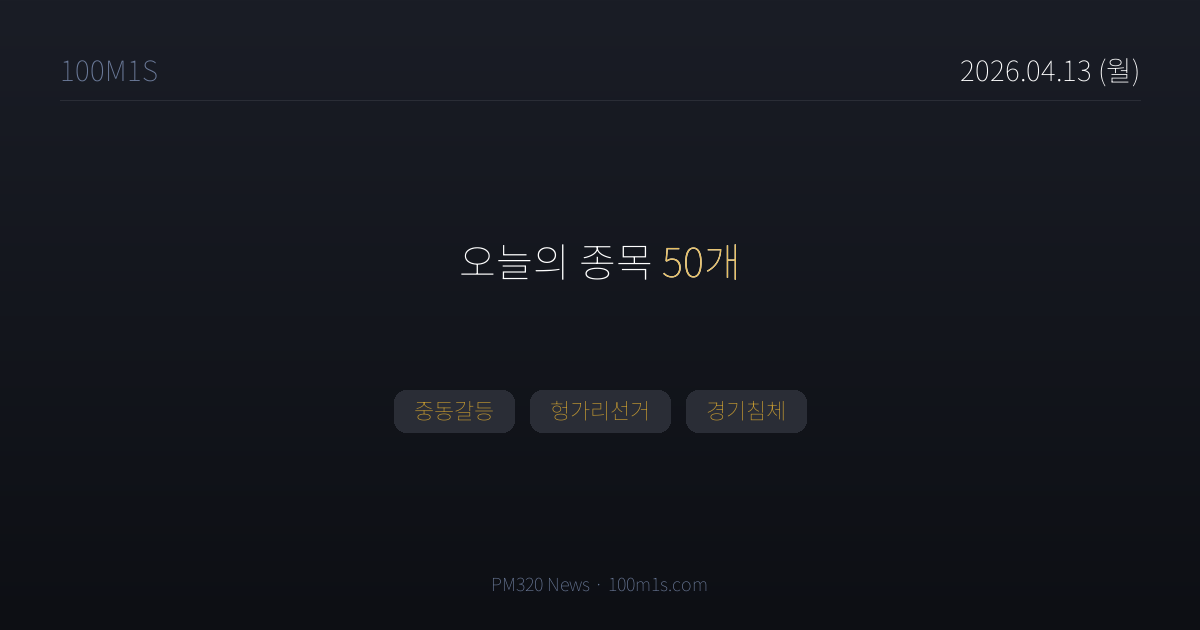
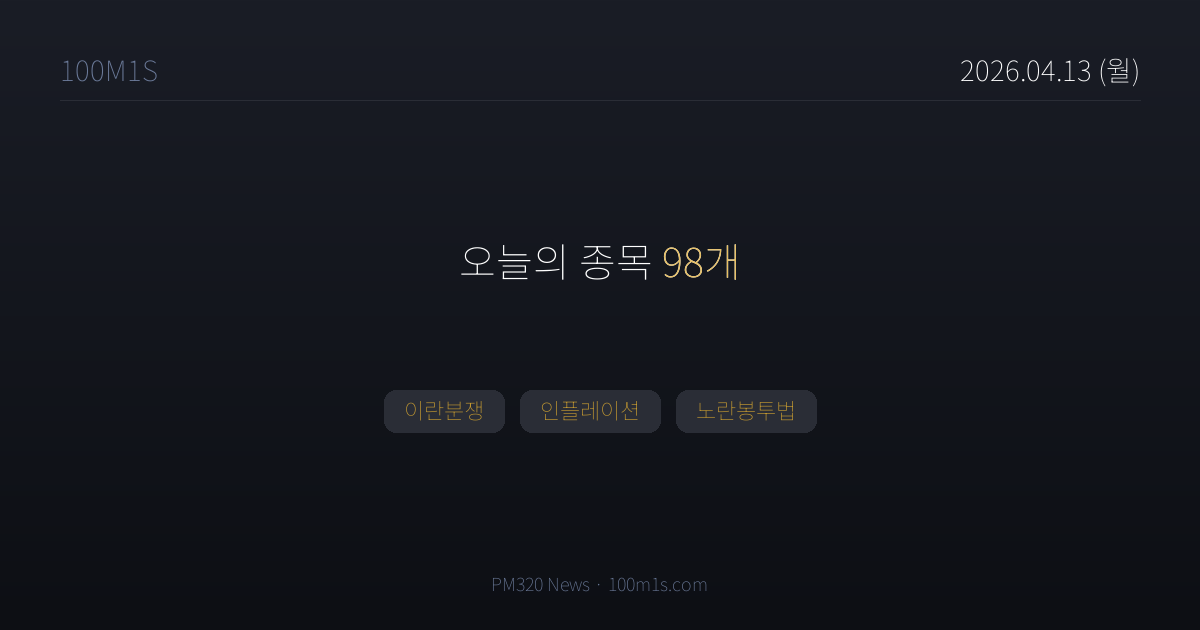
chore(news): 2026-04-13T05:29 pipeline

Changed region(s): [[0.3083, 0.6032, 0.6783, 0.6937], [0.555, 0.3921, 0.5858, 0.4524]]

diff --git a/news/2026-04-13.html b/news/2026-04-13.html
@@ -3,8 +3,8 @@
 <head>
 <meta charset="UTF-8">
 <title>4월 13일 (월) 뉴스 — 100M1S</title>
-<meta property="og:title" content="4월 13일 (월) · 종목 50개">
-<meta property="og:description" content="중동갈등, 헝가리선거, 경기침체">
+<meta property="og:title" content="4월 13일 (월) · 종목 98개">
+<meta property="og:description" content="이란분쟁, 인플레이션, 노란봉투법">
 <meta property="og:image" content="https://100m1s.com/og/2026-04-13.png">
 <meta property="og:image:width" content="1200">
 <meta property="og:image:height" content="630">
